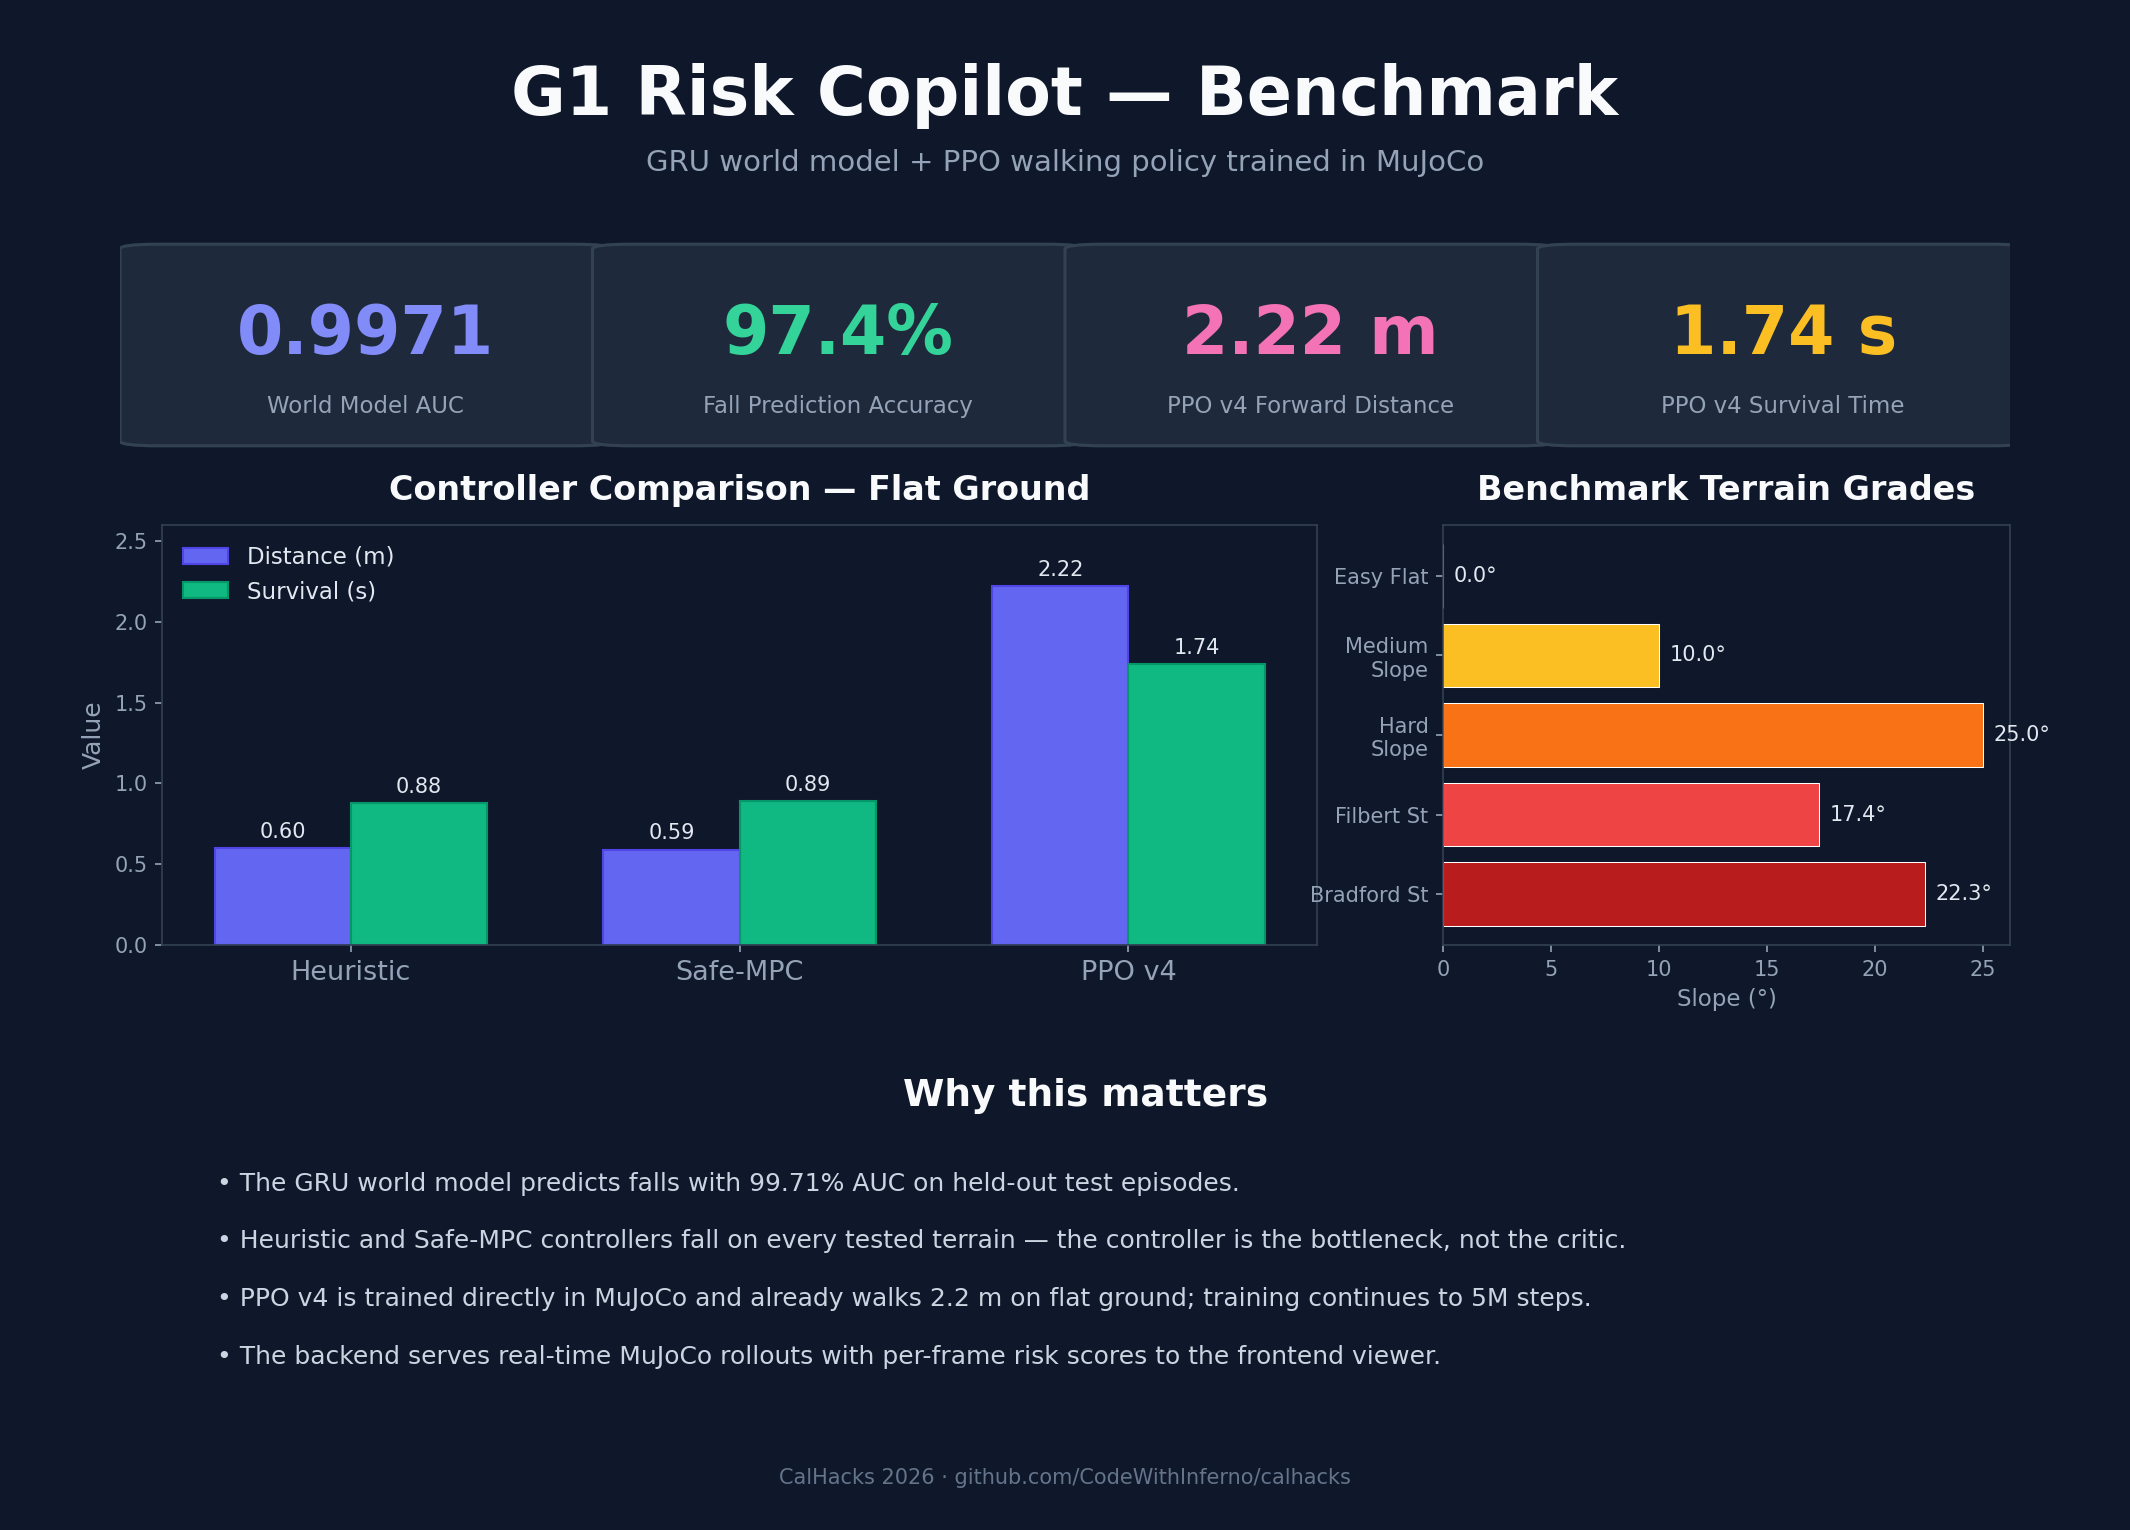
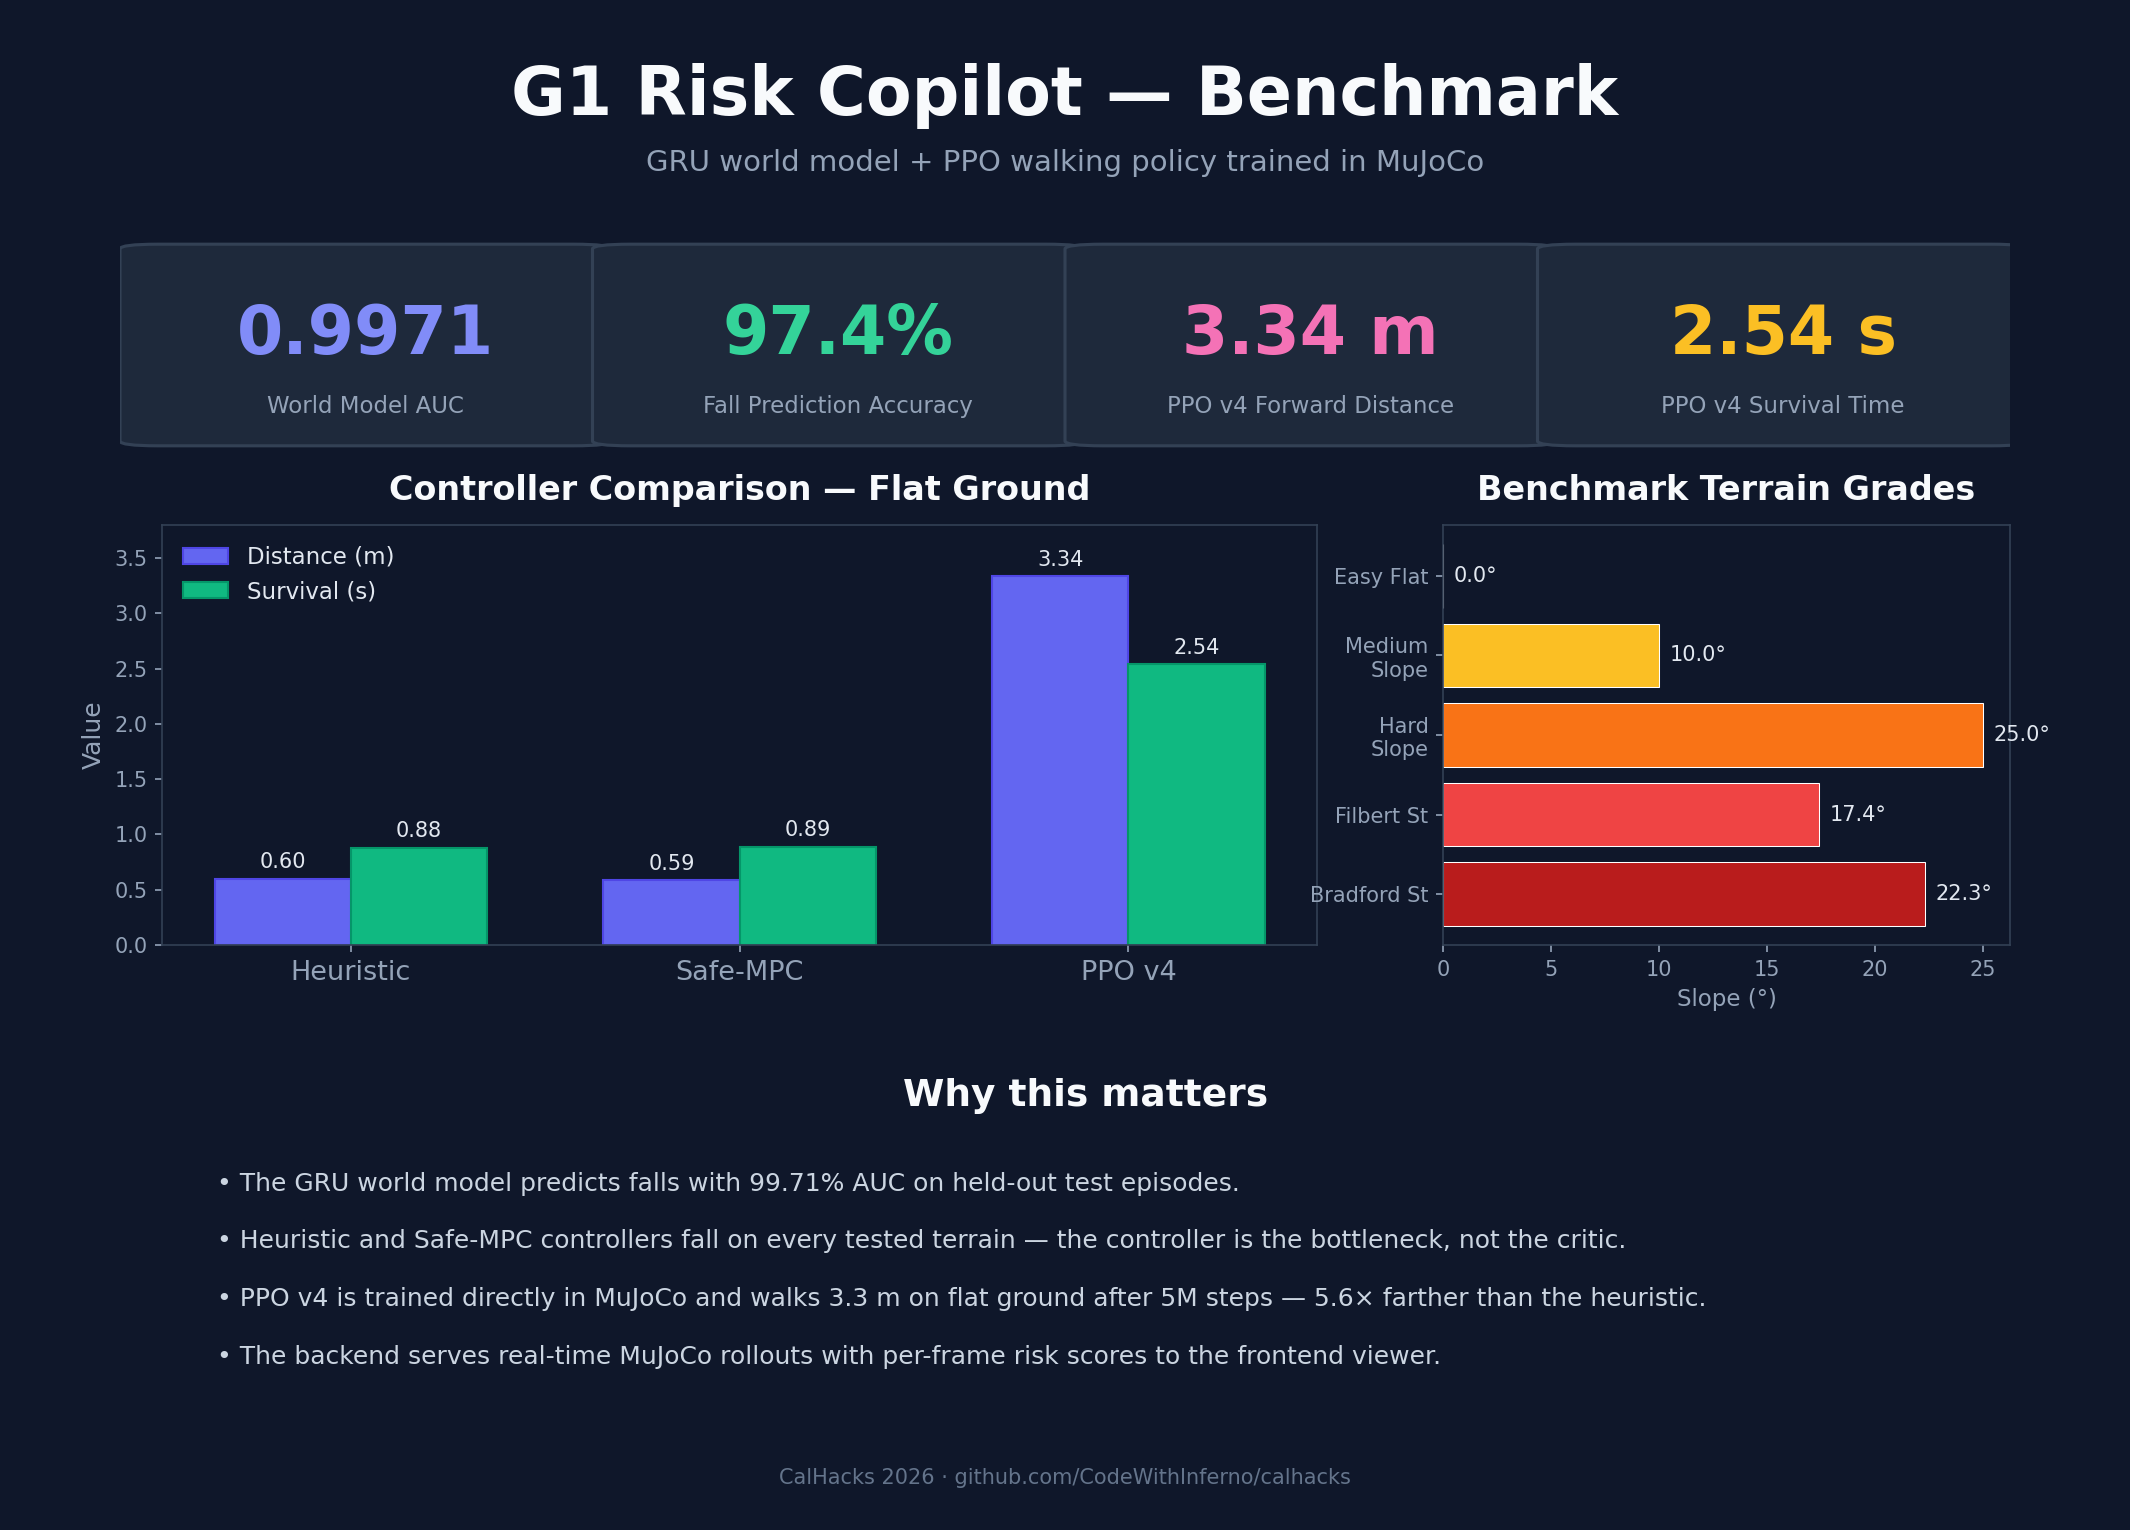
Update benchmark viz with final PPO v4 5M results

diff --git a/src/generate_benchmark_viz.py b/src/generate_benchmark_viz.py
@@ -84,15 +84,15 @@ def generate(output_path: Path):
     ax_cards.axis("off")
     _add_card(ax_cards, 0.02, 0.1, 0.22, 0.8, "0.9971", "World Model AUC", "#818cf8")
     _add_card(ax_cards, 0.27, 0.1, 0.22, 0.8, "97.4%", "Fall Prediction Accuracy", "#34d399")
-    _add_card(ax_cards, 0.52, 0.1, 0.22, 0.8, "2.22 m", "PPO v4 Forward Distance", "#f472b6")
-    _add_card(ax_cards, 0.77, 0.1, 0.22, 0.8, "1.74 s", "PPO v4 Survival Time", "#fbbf24")
+    _add_card(ax_cards, 0.52, 0.1, 0.22, 0.8, "3.34 m", "PPO v4 Forward Distance", "#f472b6")
+    _add_card(ax_cards, 0.77, 0.1, 0.22, 0.8, "2.54 s", "PPO v4 Survival Time", "#fbbf24")
 
     # Controller comparison (flat ground, seed 42, 0.5 m/s)
     ax_bar = fig.add_axes([0.07, 0.38, 0.55, 0.28])
     ax_bar.set_facecolor("#0f172a")
     controllers = ["Heuristic", "Safe-MPC", "PPO v4"]
-    distance = [0.60, 0.59, 2.22]
-    survival = [0.88, 0.89, 1.74]
+    distance = [0.60, 0.59, 3.34]
+    survival = [0.88, 0.89, 2.54]
     x = np.arange(len(controllers))
     width = 0.35
     bars1 = ax_bar.bar(x - width / 2, distance, width, label="Distance (m)", color="#6366f1", edgecolor="#4f46e5")
@@ -105,7 +105,7 @@ def generate(output_path: Path):
     ax_bar.tick_params(colors="#94a3b8")
     for spine in ax_bar.spines.values():
         spine.set_color("#334155")
-    ax_bar.set_ylim(0, 2.6)
+    ax_bar.set_ylim(0, 3.8)
     for bar in bars1:
         height = bar.get_height()
         ax_bar.annotate(f"{height:.2f}", xy=(bar.get_x() + bar.get_width() / 2, height),
@@ -152,7 +152,7 @@ def generate(output_path: Path):
     bullets = [
         "• The GRU world model predicts falls with 99.71% AUC on held-out test episodes.",
         "• Heuristic and Safe-MPC controllers fall on every tested terrain — the controller is the bottleneck, not the critic.",
-        "• PPO v4 is trained directly in MuJoCo and already walks 2.2 m on flat ground; training continues to 5M steps.",
+        "• PPO v4 is trained directly in MuJoCo and walks 3.3 m on flat ground after 5M steps — 5.6× farther than the heuristic.",
         "• The backend serves real-time MuJoCo rollouts with per-frame risk scores to the frontend viewer.",
     ]
     for i, b in enumerate(bullets):